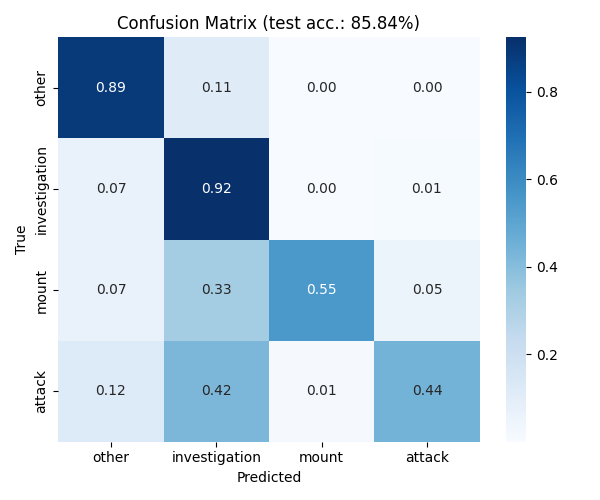
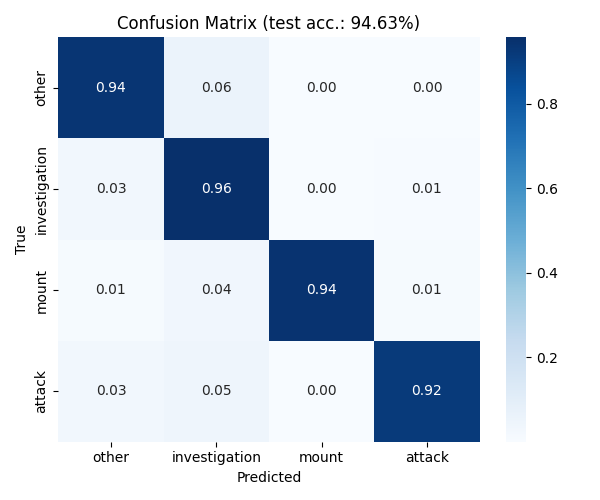
best sparsemax

diff --git a/src/train_sparsemax.py b/src/train_sparsemax.py
@@ -53,20 +53,25 @@ class ResNetClassifier(nn.Module):
         return self.sparsemax(self.output_layer(x))  # returns sparse probs
 
 # train - updated for sparsemax outputs
-def train(model, dataloader, optimizer, criterion, device, writer, epoch):
+def train(model, dataloader, optimizer, criterion, device, writer, weights, epoch):
     model.train()
     running_loss = 0.0
     eps = 0.02
     for i, (inputs, labels) in enumerate(dataloader):
         inputs, labels = inputs.to(device), labels.to(device)
-        noise = torch.normal(0, 0.02, size=inputs.shape).to(device)
-        inputs = inputs + noise
+        # noise = torch.normal(0, 0.02, size=inputs.shape).to(device)
+        # inputs = inputs + noise
         optimizer.zero_grad()
         outputs = model(inputs)
         log_sparsemax = torch.log(outputs + 1e-10)
-        # label smoothing
-        target_one_hot = (1 - eps) * torch.nn.functional.one_hot(labels, num_classes=4).float() + eps / 4
-        loss = criterion(log_sparsemax, target_one_hot.to(device))
+        # label smoothing + weighting
+        target_one_hot = torch.nn.functional.one_hot(labels, num_classes=4).float().to(device)
+        # apply per-class weights
+        weighted_targets = target_one_hot * weights  # shape: (batch_size, num_classes)
+        # normalize to ensure it's a proper probability distribution
+        weighted_targets = weighted_targets / (weighted_targets.sum(dim=1, keepdim=True) + 1e-10)
+
+        loss = criterion(log_sparsemax, weighted_targets)
         loss.backward()
         optimizer.step()
         running_loss += loss.item()
@@ -120,7 +125,7 @@ def main():
     writer = SummaryWriter(log_dir='runs/sparsemax_stratified')
 
     best_val_acc = 0
-    patience, patience_counter = 5, 0
+    # patience, patience_counter = 10, 0
 
     for epoch in range(100):
         print(f"Epoch {epoch+1}")
@@ -141,6 +146,7 @@ def main():
         #     if patience_counter >= patience:
         #         print("Early stopping")
         #         break
+
 
     # final metrics
     val_acc, val_cm = evaluate(model, val_loader, device)
